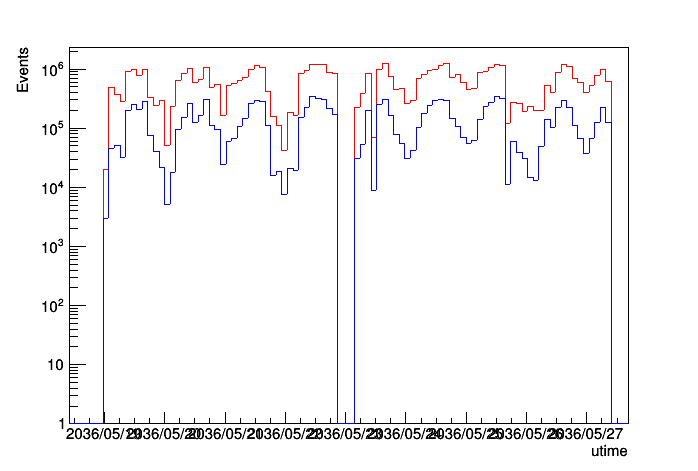
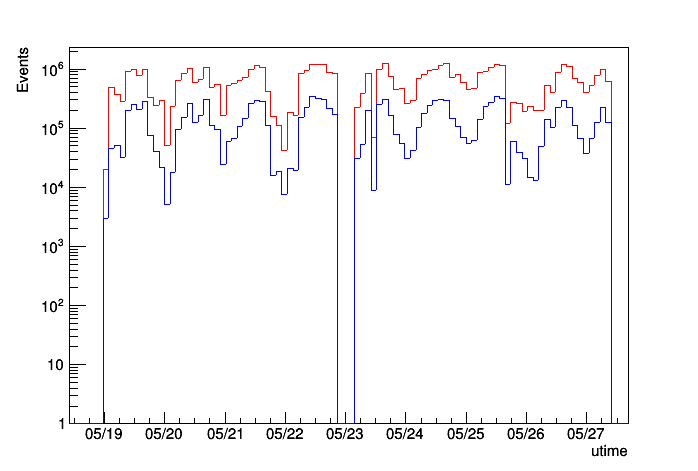
update 21-01-21

Changed region(s): [[0.0903, 0.8917, 0.9026, 0.9512]]

diff --git a/ProtonAnalysis.C b/ProtonAnalysis.C
@@ -132,6 +132,7 @@ class Anaaqra {
     void Acceptance(bool apply_cuts = 0);       // Returns (geometric) acceptance as function of rigidity
     void CutEff(bool plot_all = 0);             // Returns the cut (selection) efficiency as function of rigidity
     void TrigEff(int delta = 100);              // Returns the trigger efficiency as function of rigidity
+    void AerogelSlice();
     // Plural (dependent)
     void ProtonRate();                          // Returns the proton rate as function of rigidity
     void ProtonFlux();                          // Returns the proton flux as function of rigidity
@@ -336,8 +337,8 @@ void Anaaqra::ParameterAnalysis(const char* cutbit = "111111111") {
   utime_raw->GetXaxis()->SetTitle("utime"); utime_raw->GetYaxis()->SetTitle("Events");
   UTime_data->SetLogx(0); UTime_data->SetLogy(1); utime_raw->SetMinimum(1);
   utime_raw->SetLineColor(kRed); utime_cut->SetLineColor(kBlue);
-  utime_raw->GetXaxis()->SetTimeDisplay(1); utime_raw->GetXaxis()->SetTimeFormat("%Y/%m/%d");
-  utime_raw->GetXaxis()->SetTimeOffset(-788918400);
+  utime_raw->GetXaxis()->SetTimeDisplay(1); utime_raw->GetXaxis()->SetTimeFormat("%m/%d");
+  //utime_raw->GetXaxis()->SetTimeOffset(-788918400);
   UTime_data->Draw(); UTime_data->Print("./ProtonAnalysis/PA/UTime Data.png");
 
   // Clear temporary histograms
@@ -1080,5 +1081,56 @@ void Anaaqra::ProtonFlux() {
   c_SFlux->Print("./ProtonAnalysis/Scaled Proton Flux.png");
 
   cout << "ProtonFlux() has finished!\n" << endl;
+
+}
+
+
+
+// Aerogel beta mass test
+void Anaaqra::AerogelSlice(){
+
+  cout << "Running AerogelSlice()..." << endl;
+
+  // Histograms
+  TH1F *aero_beta = new TH1F("abeta", "", 100, 0.8, 1.2);
+  TH1F *aero_rig  = new TH1F("arig", "", 100, 0, 22);
+  TH1F *aero_mass = new TH1F("amass", "", 100, 0, 2.5);
+
+  // Loop over data entries
+  for (int i=0; i<Simp_chain->GetEntries(); i++) {
+
+    // Get Entry
+    Simp_chain->GetEntry(i);
+
+    // Fill histograms
+    if ((Tool->rich_beta > 0.96) && (Tool->rich_beta < 0.996) && (Tool->trk_rig > 3.2) && (Tool->trk_rig < 10.5)) {
+      if (EventSelectorSimple(Tool, "111111111")) {
+        aero_beta->Fill(Tool->rich_beta);
+        aero_rig->Fill(Tool->trk_rig);
+        aero_mass->Fill(Tool->trk_q_inn * Tool->trk_rig * TMath::Sqrt(1 / Tool->rich_beta / Tool->rich_beta - 1));
+      }
+    }
+
+  }
+
+  // Create canvasses
+  TCanvas *Aero_beta = new TCanvas("Aero_beta", "Aerogel RICH Beta");
+  aero_beta->Draw();
+  aero_beta->GetXaxis()->SetTitle("#beta (v/c)"); aero_beta->GetYaxis()->SetTitle("Events");
+  Aero_beta->SetLogx(0); Aero_beta->SetLogy(1); aero_beta->SetMinimum(1);
+  aero_beta->SetLineColor(kGreen); aero_beta->SetLineWidth(3);
+  Aero_beta->Draw(); Aero_beta->Print("./ProtonAnalysis/Aerogel Beta.png");
+  TCanvas *Aero_rig  = new TCanvas("Aero_rig", "Aerogel Rigidity");
+  aero_rig->Draw();
+  aero_rig->GetXaxis()->SetTitle("R [GV]"); aero_rig->GetYaxis()->SetTitle("Events");
+  Aero_rig->SetLogx(0); Aero_rig->SetLogy(1); aero_rig->SetMinimum(1);
+  aero_rig->SetLineColor(kGreen); aero_rig->SetLineWidth(3);
+  Aero_rig->Draw(); Aero_rig->Print("./ProtonAnalysis/Aerogel Rigidity.png");
+  TCanvas *Aero_mass = new TCanvas("Aero_mass", "Aerogel Mass");
+  aero_mass->Draw();
+  aero_mass->GetXaxis()->SetTitle("m [GeV/c^2]"); aero_mass->GetYaxis()->SetTitle("Events");
+  Aero_mass->SetLogx(0); Aero_mass->SetLogy(1); aero_mass->SetMinimum(1);
+  aero_mass->SetLineColor(kGreen); aero_mass->SetLineWidth(3);
+  Aero_mass->Draw(); Aero_mass->Print("./ProtonAnalysis/Aerogel Mass.png");
 
 }
